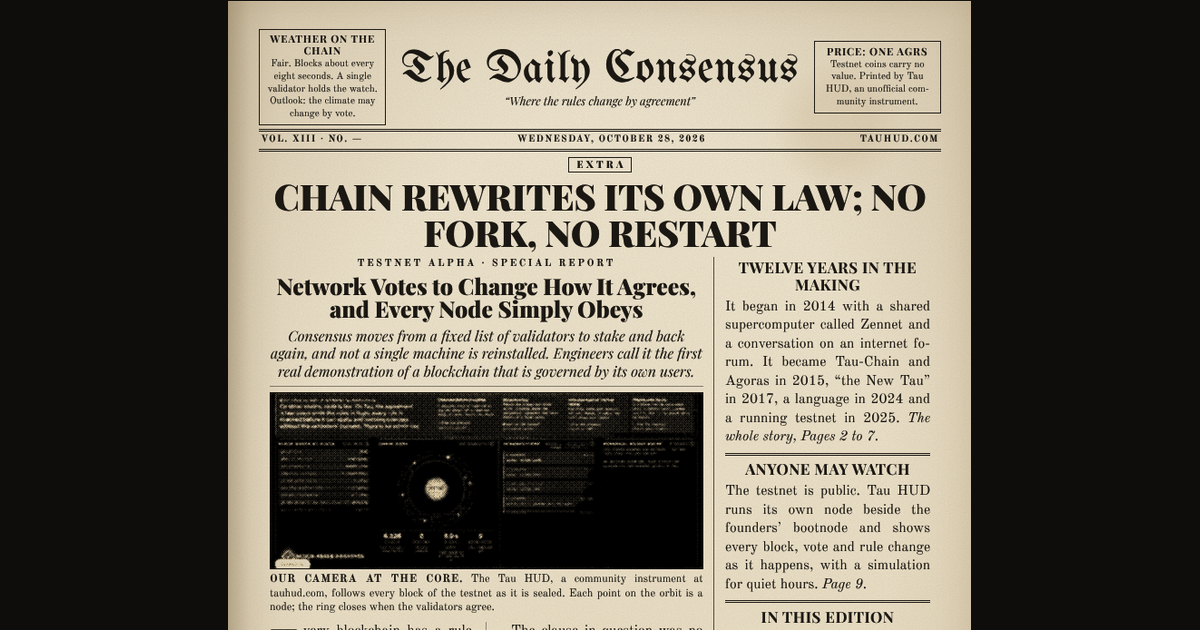
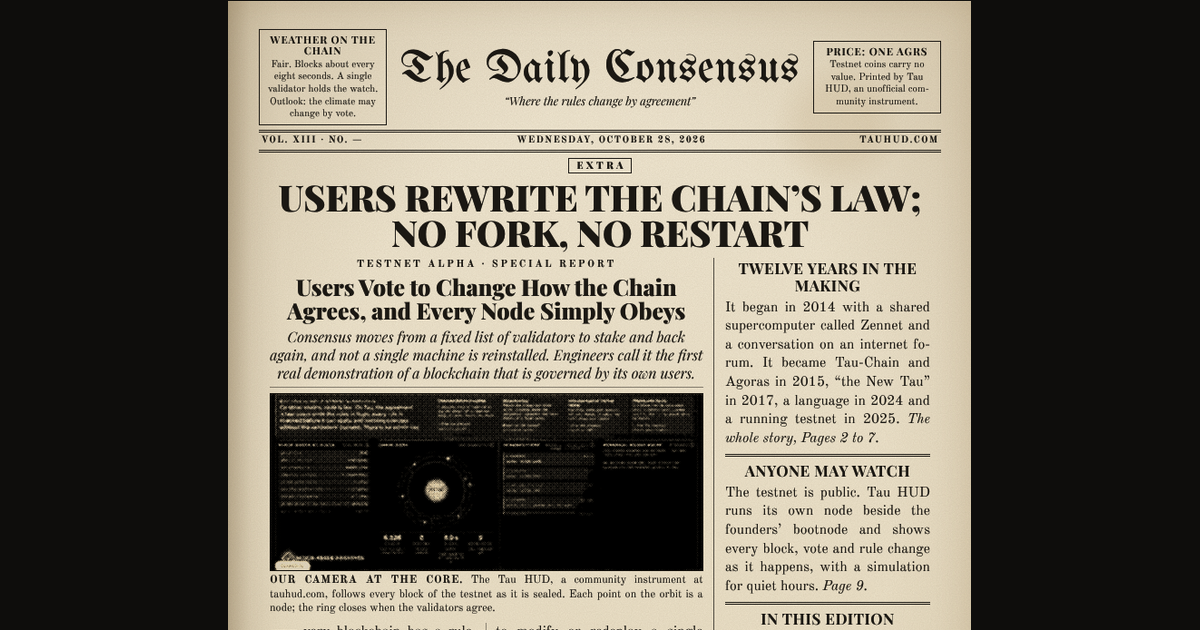
Daily Consensus: the users vote, not the chain or the network

diff --git a/gazette/index.html b/gazette/index.html
@@ -14,7 +14,7 @@
 <link rel="apple-touch-icon" href="/apple-touch-icon.png">
 <meta name="theme-color" content="#09090a">
 <meta property="og:title" content="The Daily Consensus · Tau HUD">
-<meta property="og:description" content="Extra! Chain rewrites its own law, no fork required. Twelve years of Tau as a 1920s newspaper you can leaf through.">
+<meta property="og:description" content="Extra! Users rewrite the chain’s law by vote, no fork required. Twelve years of Tau as a 1920s newspaper you can leaf through.">
 <meta property="og:image" content="https://tauhud.com/gazette/img/og.png">
 <meta property="og:url" content="https://tauhud.com/gazette/">
 <meta name="twitter:card" content="summary_large_image">
@@ -233,7 +233,7 @@ const EN = {
   motto: "“Where the rules change by agreement”",
   ui: { coverLine: "Twelve years of Tau and the chain that changes its own rules, in ten pages of news, letters, obituaries and puzzles.", cont: "continued", stop: "Stop press", front: "Front page", pageN: n => `Page ${n}`, pagesN: (a, b) => `Pages ${a}–${b}`, of: "of", tocN: n => `p. ${n}`, back: "‹ Back", turn: "Turn ›", contents: "Contents", pocket: "Pocket edition", broad: "Broadsheet", sOn: "Sound on", sOff: "Sound off", hint: "<b>Click or tap the page</b> to turn it · arrow keys work too", hintTouch: "<b>Tap the page</b> to turn it · swipe works too", wireWait: "the wire to the node is being connected", wireOff: "the wire to the node is silent just now; the full story waits at tauhud.com", wire: (h, age) => `At the hour of printing the testnet stood at block <span class="live">#${h}</span>${age != null ? `, the last one sealed ${age} seconds before this line was set` : ""}. Follow it live at tauhud.com.` },
   date: d => d.toLocaleDateString("en-US", { weekday: "long", year: "numeric", month: "long", day: "numeric", timeZone: "UTC" }),
-  toc: ["Front page: chain rewrites its own law", "The long road from Zennet", "The hard fork, explained", "Four quiet years and one great equation", "A language that speaks of itself", "Dispatches from the builders' yard", "The year the chain took the wheel", "How a law is made · Letters", "Today on the testnet · Classifieds", "Amusements · Clip and keep"],
+  toc: ["Front page: users rewrite the chain’s law", "The long road from Zennet", "The hard fork, explained", "Four quiet years and one great equation", "A language that speaks of itself", "Dispatches from the builders' yard", "The year the users took the wheel", "How a law is made · Letters", "Today on the testnet · Classifieds", "Amusements · Clip and keep"],
   pages: [
 /* ---------------- 1 FRONT PAGE ---------------- */
 `<div class="pg front">
@@ -244,16 +244,16 @@ const EN = {
   </div>
   <div class="dateline"><span>Vol. XIII · No. {{HEIGHT}}</span><span>{{DATE}}</span><span>tauhud.com</span></div>
   <div class="center"><span class="extra">EXTRA</span></div>
-  <div class="banner">Chain rewrites its own law; no fork, no restart</div>
+  <div class="banner">Users rewrite the chain’s law; no fork, no restart</div>
   <div class="grid">
     <div class="u s4">
       <div class="kick">Testnet Alpha · special report</div>
-      <h2>Network Votes to Change How It Agrees, and Every Node Simply Obeys</h2>
+      <h2>Users Vote to Change How the Chain Agrees, and Every Node Simply Obeys</h2>
       <div class="deck">Consensus moves from a fixed list of validators to stake and back again, and not a single machine is reinstalled. Engineers call it the first real demonstration of a blockchain that is governed by its own users.</div>
       <figure class="photo"><img src="img/hud-wide.jpg" width="1100" height="450" style="height:auto;aspect-ratio:1100/450" alt="Halftone photograph of the Tau HUD screen"><figcaption><b>Our camera at the core.</b> The Tau HUD, a community instrument at tauhud.com, follows every block of the testnet as it is sealed. Each point on the orbit is a node; the ring closes when the validators agree.</figcaption></figure>
       <div class="c2"><p class="dc ni">Every blockchain has a rulebook. On most of them it is carved into the software itself, and changing a single line means a <i>hard fork</i>: new software, shipped to every machine, installed by every operator, with the ever-present danger that some refuse and the chain splits in two.</p>
       <p>The Tau network has taken a different road. In its August development report the team described demonstrations in which, in their words, the community can <i>“amend the single clause on the network’s law and activate it on the next block”</i>, without having to modify or redeploy a single node.</p>
-      <p>The clause in question was no small matter. It was consensus itself: who may seal blocks. The network voted to move from a fixed validator list to proof of stake, and then voted to move back. Each time, every node switched by itself at the agreed block.</p>
+      <p>The clause in question was no small matter. It was consensus itself: who may seal blocks. The users voted to move from a fixed validator list to proof of stake, and then voted to move back. Each time, every node switched by itself at the agreed block.</p>
       <p>It works because the rulebook lives on the chain. Since January every block records the exact snapshot of rules it ran under, and since May the consensus logic is written in the Tau Language rather than in Python, so a rule change is simply another transaction. <i>See Page 7.</i></p></div>
     </div>
     <div class="u s2 rl">
@@ -332,7 +332,7 @@ const EN = {
         <g font-size="13" text-anchor="middle">
           <rect x="0" y="184" width="120" height="44" fill="none" stroke="#1b1813" stroke-width="1.5"/><text x="60" y="211">Proposal</text>
           <rect x="150" y="184" width="130" height="44" fill="none" stroke="#1b1813" stroke-width="1.5"/><text x="215" y="204">Checked by logic</text><text x="215" y="220" font-size="11" font-style="italic">contradiction? refused</text>
-          <rect x="310" y="184" width="120" height="44" fill="none" stroke="#1b1813" stroke-width="1.5"/><text x="370" y="204">Agreed</text><text x="370" y="220" font-size="11" font-style="italic">by the validators</text>
+          <rect x="310" y="184" width="120" height="44" fill="none" stroke="#1b1813" stroke-width="1.5"/><text x="370" y="204">Agreed</text><text x="370" y="220" font-size="11" font-style="italic">by the users’ vote</text>
           <rect x="460" y="184" width="130" height="44" fill="#1b1813"/><text x="525" y="204" fill="#efe5cf" font-weight="700">Law</text><text x="525" y="220" font-size="11" fill="#efe5cf" font-style="italic">at a set block</text>
           <line x1="120" y1="206" x2="148" y2="206" stroke="#1b1813" stroke-width="1.5" marker-end="url(#ar)"/><line x1="280" y1="206" x2="308" y2="206" stroke="#1b1813" stroke-width="1.5" marker-end="url(#ar)"/><line x1="430" y1="206" x2="458" y2="206" stroke="#1b1813" stroke-width="1.5" marker-end="url(#ar)"/>
           <line x1="590" y1="206" x2="625" y2="206" stroke="#1b1813" stroke-width="1.5" marker-end="url(#ar)"/><text x="694" y="203" font-weight="700">one chain</text><text x="694" y="219" font-size="11" font-style="italic">every node switched</text>
@@ -344,7 +344,7 @@ const EN = {
       <h2 class="l">On Other Chains, Code Is Law. On Tau, the Agreement Is Law.</h2>
       <div class="c2"><p class="ni dc">The trouble with a rulebook made of software is that only programmers can open it, and only by sending everybody a new copy. A hard fork is a polite name for that copy. If enough people refuse it, the chain divides, and two currencies walk away from one another like brothers after a will is read.</p>
       <p>Tau keeps the rulebook inside the chain. Users write the rules in the Tau Language, a language of logic, and propose them like any other transaction. Before a proposal can apply it is compiled and checked against the rules already in force. If it contradicts them it is refused at the door and never reaches the chain.</p>
-      <p>A proposal that passes the check is put to the validators. When enough of them agree, it becomes law at a block named in advance, for every node at once. There is no administrator’s key, no emergency switch kept by the founders. Nothing changes without the validators’ consent.</p>
+      <p>A proposal that passes the check is put to the vote. When enough votes agree, it becomes law at a block named in advance, for every node at once. There is no administrator’s key, no emergency switch kept by the founders. Nothing changes unless the vote agrees.</p>
       <p>A Tau team member put it plainly early this year: the governance is highly flexible, and <i>“the system updates itself according to the desired specification.”</i></p></div>
     </div>
     <div class="u s2 rl rt">
@@ -453,14 +453,14 @@ const EN = {
 /* ---------------- 7 2026 ---------------- */
 `<div class="pg">
   <div class="rh"><span>Page 7</span><span class="nm">{{NAME}}</span><span>{{DATE}}</span></div>
-  <div class="banner sm">The year the chain took the wheel</div>
+  <div class="banner sm">The year the users took the wheel</div>
   <div class="grid">
     <div class="u s4">
       <div class="kick">2026 · a chronicle</div>
       <h2>From “The Demo” to Programmable Money</h2>
       <div class="c2"><p class="dc ni">January opened with a promise kept: every block now records the exact snapshot of rules it ran under, so a newcomer node can check the state hash instead of replaying all of history. In February the team gave the year its motto. Testnet Alpha, they said, <i>is</i> the demo.</p>
       <p>April brought fork choice and reorganisations, one canonical chain, and user-defined policy checks beside the built-in ones. In May came the decisive step. Consensus was moved out of Python and into Tau logic, so that the users could change it with rules, and a developer command line arrived for nodes, keys and votes.</p>
-      <p>In August the users did change it. The network voted its way from a fixed validator list to stake and back, without redeploying a node. The validator list itself now lives in Tau logic.</p>
+      <p>In August the users did change it. They voted their way from a fixed validator list to stake and back, without redeploying a node. The validator list itself now lives in Tau logic.</p>
       <p>September was declared the product phase: a simple wallet mode with rule templates and sharing, and two more patents granted. In October, co-signed transfers arrived, large payments that need several approvals, with deadlines counted in blocks that no clock can fake. One commonly used specification now loads in 2.4 seconds where it once took 68.</p>
       <p>Mainnet and the real Agoras coin are still ahead. The road, for once, is visible.</p></div>
     </div>
@@ -496,7 +496,7 @@ const EN = {
           <line x1="124" y1="56" x2="234" y2="56" stroke="#1b1813" stroke-width="1.5" marker-end="url(#ar2)"/><line x1="324" y1="56" x2="434" y2="56" stroke="#1b1813" stroke-width="1.5" marker-end="url(#ar2)"/><line x1="524" y1="56" x2="634" y2="56" stroke="#1b1813" stroke-width="1.5" marker-end="url(#ar2)"/>
           <text x="80" y="118" font-style="italic" font-size="13">a rule, written in Tau,</text><text x="80" y="134" font-style="italic" font-size="13">sent as a transaction</text>
           <text x="280" y="118" font-style="italic" font-size="13">compiled against the law</text><text x="280" y="134" font-style="italic" font-size="13">in force; contradictions out</text>
-          <text x="480" y="118" font-style="italic" font-size="13">validators vote; enough</text><text x="480" y="134" font-style="italic" font-size="13">yes votes and it is agreed</text>
+          <text x="480" y="118" font-style="italic" font-size="13">the users vote; enough</text><text x="480" y="134" font-style="italic" font-size="13">yes votes and it is agreed</text>
           <text x="680" y="118" font-style="italic" font-size="13">in force for every node</text><text x="680" y="134" font-style="italic" font-size="13">at the block named ahead</text>
         </g>
       </svg>
@@ -539,7 +539,7 @@ const EN = {
       <div class="kick">From our correspondent at the node</div>
       <h2>A Public Chain, Open to Any Spectator</h2>
       <div class="c2"><p class="dc ni">Testnet Alpha runs in the open, and your correspondent has a seat in the gallery. Tau HUD keeps its own node on the network beside the bootnode of IDNI, the company behind Tau, and prints what it sees.</p>
-      <p>At the moment a single validator, run by IDNI, seals every block, roughly one every eight seconds. Proposals to change the rules arrive as transactions, gather votes and, once agreed, wait for the block at which they take effect. The HUD shows them coming, counts down to them and lights the ring when they land.</p>
+      <p>At the moment a single validator, run by IDNI, seals every block, roughly one every eight seconds. Users propose rule changes as transactions; the proposals gather votes and, once agreed, wait for the block at which they take effect. The HUD shows them coming, counts down to them and lights the ring when they land.</p>
       <p>For the quiet hours there is a simulation that follows the same protocol, with a scheduled event every hour and a change of consensus twice a day. It is marked in amber wherever it appears, so that nobody mistakes the rehearsal for the play.</p>
       <div class="box wire"><p class="ni" id="wire1">{{WIRE}}</p></div></div>
     </div>

diff --git a/gazette/zh.js b/gazette/zh.js
@@ -4,7 +4,7 @@ window.GAZETTE_ZH = {
   motto: "规则经由共识而改变",
   ui: { coverLine: "Tau 的十二年，以及一条能修改自身规则的链：十版新闻、来信、讣告与谜题。", cont: "续前", stop: "最新电讯", front: "头版", pageN: n => `第 ${n} 版`, pagesN: (a, b) => `第 ${a}–${b} 版`, of: "/ 共", tocN: n => `第 ${n} 版`, back: "‹ 上一页", turn: "翻页 ›", contents: "目录", pocket: "袖珍版", broad: "大报版", sOn: "声音 开", sOff: "声音 关", hint: "<b>点击版面</b>即可翻页 · 方向键亦可", hintTouch: "<b>轻触版面</b>即可翻页 · 也可滑动", wireWait: "正在接通节点电报线", wireOff: "节点电报线暂时无声；完整消息请见 tauhud.com", wire: (h, age) => `截至付印之时，测试网位于区块 <span class="live">#${h}</span>${age != null ? `，最近一个区块在本行排版前 ${age} 秒封存` : ""}。实时动态请见 tauhud.com。` },
   date: d => d.toLocaleDateString("zh-CN", { weekday: "long", year: "numeric", month: "long", day: "numeric", timeZone: "UTC" }),
-  toc: ["头版：区块链改写自身法则", "从 Zennet 出发的漫长道路", "硬分叉是什么", "沉寂四年与一个伟大方程", "一门谈论自身的语言", "工地来电：2025", "区块链接过方向盘的一年", "法律如何制定 · 读者来信", "今日测试网 · 分类广告", "游艺 · 剪下收藏"],
+  toc: ["头版：用户改写链的法则", "从 Zennet 出发的漫长道路", "硬分叉是什么", "沉寂四年与一个伟大方程", "一门谈论自身的语言", "工地来电：2025", "用户接过方向盘的一年", "法律如何制定 · 读者来信", "今日测试网 · 分类广告", "游艺 · 剪下收藏"],
   pages: [
 /* ---------------- 1 头版 ---------------- */
 `<div class="pg front">
@@ -15,16 +15,16 @@ window.GAZETTE_ZH = {
   </div>
   <div class="dateline"><span>第十三卷 · No. {{HEIGHT}}</span><span>{{DATE}}</span><span>tauhud.com</span></div>
   <div class="center"><span class="extra">号外</span></div>
-  <div class="banner">区块链改写自身法则：不分叉，不重启</div>
+  <div class="banner">用户投票改写链的法则：不分叉，不重启</div>
   <div class="grid">
     <div class="u s4">
       <div class="kick">Testnet Alpha · 特别报道</div>
-      <h2>网络投票改变共识方式，所有节点自行遵从</h2>
+      <h2>用户投票改变链的共识方式，所有节点自行遵从</h2>
       <div class="deck">共识从固定验证者名单切换到权益证明，又切换回来，没有重装任何一台机器。工程师称之为第一次真正展示一条由用户自己治理的区块链。</div>
       <figure class="photo"><img src="img/hud-wide.jpg" width="1100" height="450" style="height:auto;aspect-ratio:1100/450" alt="Tau HUD 屏幕的网点照片"><figcaption><b>本报镜头对准核心。</b>Tau HUD 是 tauhud.com 上的社区观测仪，测试网每封存一个区块，它都跟着记录。轨道上的每个点是一个节点；验证者同意时，圆环闭合。</figcaption></figure>
       <div class="c2"><p class="dc ni">每条区块链都有一本规则手册。在大多数链上，它被刻进软件本身，改动一行就意味着一次<i>硬分叉</i>：新软件发往每台机器，由每位运营者安装，而且始终存在有人拒绝、链一分为二的危险。</p>
       <p>Tau 网络走了另一条路。团队在八月的开发报告中介绍了几次演示，用他们的话说，社区可以<i>“修改网络法则中的某一条款，并在下一个区块生效”</i>，无需修改或重新部署任何节点。</p>
-      <p>这一条款可不是小事，它就是共识本身：谁可以封存区块。网络投票从固定验证者名单转向权益证明，随后又投票转回。每一次，所有节点都在约定的区块自行切换。</p>
+      <p>这一条款可不是小事，它就是共识本身：谁可以封存区块。用户投票从固定验证者名单转向权益证明，随后又投票转回。每一次，所有节点都在约定的区块自行切换。</p>
       <p>之所以可行，是因为规则手册就在链上。自一月起，每个区块都记录它所依据的规则快照；自五月起，共识逻辑用 Tau 语言而不是 Python 编写，所以改规则只是又一笔交易。<i>详见第 7 版。</i></p></div>
     </div>
     <div class="u s2 rl">
@@ -103,7 +103,7 @@ window.GAZETTE_ZH = {
         <g font-size="13" text-anchor="middle">
           <rect x="0" y="184" width="120" height="44" fill="none" stroke="#1b1813" stroke-width="1.5"/><text x="60" y="211">提案</text>
           <rect x="150" y="184" width="130" height="44" fill="none" stroke="#1b1813" stroke-width="1.5"/><text x="215" y="204">逻辑检查</text><text x="215" y="220" font-size="11" font-style="italic">有矛盾？拒绝</text>
-          <rect x="310" y="184" width="120" height="44" fill="none" stroke="#1b1813" stroke-width="1.5"/><text x="370" y="204">通过</text><text x="370" y="220" font-size="11" font-style="italic">由验证者同意</text>
+          <rect x="310" y="184" width="120" height="44" fill="none" stroke="#1b1813" stroke-width="1.5"/><text x="370" y="204">通过</text><text x="370" y="220" font-size="11" font-style="italic">经用户投票</text>
           <rect x="460" y="184" width="130" height="44" fill="#1b1813"/><text x="525" y="204" fill="#efe5cf" font-weight="700">法律</text><text x="525" y="220" font-size="11" fill="#efe5cf" font-style="italic">于预定区块生效</text>
           <line x1="120" y1="206" x2="148" y2="206" stroke="#1b1813" stroke-width="1.5" marker-end="url(#ar)"/><line x1="280" y1="206" x2="308" y2="206" stroke="#1b1813" stroke-width="1.5" marker-end="url(#ar)"/><line x1="430" y1="206" x2="458" y2="206" stroke="#1b1813" stroke-width="1.5" marker-end="url(#ar)"/>
           <line x1="590" y1="206" x2="625" y2="206" stroke="#1b1813" stroke-width="1.5" marker-end="url(#ar)"/><text x="694" y="203" font-weight="700">一条链</text><text x="694" y="219" font-size="11" font-style="italic">所有节点一起切换</text>
@@ -115,7 +115,7 @@ window.GAZETTE_ZH = {
       <h2 class="l">在别的链上，代码即法律；在 Tau 上，共识即法律</h2>
       <div class="c2"><p class="ni dc">用软件写成的规则手册，麻烦在于只有程序员能打开它，而且只能靠给每个人发一份新副本。硬分叉就是这份副本的客气说法。如果拒绝的人够多，链就会分裂，两种货币从此分道扬镳，好比宣读遗嘱后反目的兄弟。</p>
       <p>Tau 把规则手册放在链里。用户用 Tau 语言（一门逻辑语言）编写规则，并像其他交易一样提交提案。提案生效之前，会先被编译，并与已生效的规则逐一比对。与它们矛盾的，在门口就被拒绝，永远到不了链上。</p>
-      <p>通过检查的提案交由验证者表决。足够多的验证者同意后，它在事先指定的区块对所有节点同时成为法律。没有管理员密钥，也没有创始人手里的紧急开关。未经验证者同意，什么都不会改变。</p>
+      <p>通过检查的提案交付表决。赞成票足够时，它在事先指定的区块对所有节点同时成为法律。没有管理员密钥，也没有创始人手里的紧急开关。表决不通过，什么都不会改变。</p>
       <p>今年早些时候，一位 Tau 团队成员说得很直白：治理非常灵活，<i>“系统会按照期望的规格自行更新。”</i></p></div>
     </div>
     <div class="u s2 rl rt">
@@ -224,14 +224,14 @@ window.GAZETTE_ZH = {
 /* ---------------- 7 2026 ---------------- */
 `<div class="pg">
   <div class="rh"><span>第 7 版</span><span class="nm">{{NAME}}</span><span>{{DATE}}</span></div>
-  <div class="banner sm">区块链接过方向盘的一年</div>
+  <div class="banner sm">用户接过方向盘的一年</div>
   <div class="grid">
     <div class="u s4">
       <div class="kick">2026 · 编年</div>
       <h2>从“演示”到可编程货币</h2>
       <div class="c2"><p class="dc ni">一月以兑现承诺开场：每个区块现在都记录它所依据的确切规则快照，新加入的节点可以核对状态哈希，而不必重放全部历史。二月，团队为这一年定下格言：Testnet Alpha <i>就是</i>演示。</p>
       <p>四月带来了分叉选择与链重组、唯一的规范链，以及与内置检查并列的用户自定义策略检查。五月迈出决定性一步：共识从 Python 移入 Tau 逻辑，用户可以用规则修改它；同时推出了管理节点、密钥和投票的开发者命令行。</p>
-      <p>八月，用户真的改了它。网络通过投票从固定验证者名单切换到权益证明再切回，没有重新部署任何节点。验证者名单本身如今也存在于 Tau 逻辑中。</p>
+      <p>八月，用户真的改了它。他们通过投票从固定验证者名单切换到权益证明再切回，没有重新部署任何节点。验证者名单本身如今也存在于 Tau 逻辑中。</p>
       <p>九月宣布进入产品阶段：带规则模板与分享功能的简易钱包模式，另有两项专利获批。十月，联署转账上线：大额支付需要多方批准，期限以任何时钟都伪造不了的区块数计算。一个常用规格的加载时间从 68 秒降到 2.4 秒。</p>
       <p>主网和真正的 Agoras 币仍在前方。难得的是，这一次路看得见。</p></div>
     </div>
@@ -267,7 +267,7 @@ window.GAZETTE_ZH = {
           <line x1="124" y1="56" x2="234" y2="56" stroke="#1b1813" stroke-width="1.5" marker-end="url(#ar2)"/><line x1="324" y1="56" x2="434" y2="56" stroke="#1b1813" stroke-width="1.5" marker-end="url(#ar2)"/><line x1="524" y1="56" x2="634" y2="56" stroke="#1b1813" stroke-width="1.5" marker-end="url(#ar2)"/>
           <text x="80" y="118" font-size="13">用 Tau 写一条规则，</text><text x="80" y="134" font-size="13">作为交易发出</text>
           <text x="280" y="118" font-size="13">与现行法律一起编译；</text><text x="280" y="134" font-size="13">有矛盾者出局</text>
-          <text x="480" y="118" font-size="13">验证者投票；赞成票</text><text x="480" y="134" font-size="13">足够即获通过</text>
+          <text x="480" y="118" font-size="13">用户投票；赞成票</text><text x="480" y="134" font-size="13">足够即获通过</text>
           <text x="680" y="118" font-size="13">在预先指定的区块</text><text x="680" y="134" font-size="13">对所有节点生效</text>
         </g>
       </svg>
@@ -310,7 +310,7 @@ window.GAZETTE_ZH = {
       <div class="kick">本报驻节点记者</div>
       <h2>一条公开的链，向所有旁观者开放</h2>
       <div class="c2"><p class="dc ni">Testnet Alpha 公开运行，本报记者在旁听席上有个座位。Tau HUD 在 IDNI（Tau 背后的公司）的引导节点旁运行着自己的节点，并把所见付印。</p>
-      <p>目前由 IDNI 运营的唯一一位验证者封存每个区块，大约每八秒一个。修改规则的提案以交易形式到来，收集投票，一旦通过便等待生效的那个区块。HUD 会提前显示、倒数计时，并在生效时点亮圆环。</p>
+      <p>目前由 IDNI 运营的唯一一位验证者封存每个区块，大约每八秒一个。用户以交易形式提出规则变更，提案收集投票，一旦通过便等待生效的那个区块。HUD 会提前显示、倒数计时，并在生效时点亮圆环。</p>
       <p>冷清时段另有一个遵循同一协议的模拟，每小时安排一次事件，每天两次切换共识。它出现的地方都标成琥珀色，免得有人把彩排当成正戏。</p>
       <div class="box wire"><p class="ni" id="wire1">{{WIRE}}</p></div></div>
     </div>

diff --git a/assets/i18n/zh/hud.js b/assets/i18n/zh/hud.js
@@ -1534,6 +1534,6 @@ TauI18n.add({ strings: {
   "Personal money rules, Rule sharing and refused transactions now fill on the HUD, in Live mode and in the simulation. Every rule an account deploys or accepts appears with its terms; offers show who offered what to whom and whether it was accepted, declined or expired; rules and offers set before you opened the page are fetched per account. What the node refuses at the door shows in the transaction feed with its reason, such as too little balance, a used sequence number, a fee below the base fee, a rule that does not compile or the sender's own rule saying no; hover or click for the full story.": "个人资金规则、规则共享和被拒绝的交易现在会在 HUD 上显示，实时模式和模拟中都是如此。账户部署或接受的每条规则都会连同条款一起出现；提议会显示谁向谁提议了什么，以及它被接受、拒绝还是过期；你打开页面之前设置的规则和提议会按账户获取。节点在门口拒绝的内容会带着原因出现在交易流中，例如余额不足、序列号已用、手续费低于基础手续费、规则无法编译或发送方自己的规则说不；悬停或点击可看完整经过。",
   "Just refused a transfer from this account.": "刚刚拒绝了这个账户的一笔转账。",
   "What Tau refuses is red again: refused transactions in the feed, the refused counter, a rejected rule offer, a declined approval and the verdict in each detail use the muted refusal red from the Playground; a personal rule that has just said no to a transfer lights up in it too. The bright red stays reserved for offline.": "Tau 拒绝的内容又用上了拒绝色：交易流中被拒绝的交易、拒绝计数、被拒绝的规则提议、被拒绝的审批以及每个详情中的判定，都使用演练场中柔和的拒绝色；刚刚拒绝了一笔转账的个人规则也会以此色亮起。鲜亮的颜色仍只用于离线。",
-  "New page: The Daily Consensus, twelve years of Tau as a 1920s newspaper. Ten pages drawn from the Tau team’s own videos and the Chronicle: the front-page story of the chain that changed its consensus by vote, the road from Zennet, obituaries for dropped plans, telegrams from 2025, letters from the monthly Q&As, classifieds and puzzles. Click, tap or press the arrow keys to turn a page; on phones and small screens it becomes a pocket edition. In Chinese too. Find it under Learn.": "新页面：《共识日报》，以 1920 年代报纸的形式讲述 Tau 的十二年。十个版面取材于 Tau 团队自己的视频和编年史：头版是网络投票改变共识的链，还有从 Zennet 出发的道路、已放弃计划的讣告、2025 年的电报、月度问答中的读者来信、分类广告和谜题。点击、轻触或按方向键即可翻页；在手机和小屏幕上会变成袖珍版。也有中文版。在“学习”菜单中可以找到。",
+  "New page: The Daily Consensus, twelve years of Tau as a 1920s newspaper. Ten pages drawn from the Tau team’s own videos and the Chronicle: the front-page story of the users who changed the chain’s consensus by vote, the road from Zennet, obituaries for dropped plans, telegrams from 2025, letters from the monthly Q&As, classifieds and puzzles. Click, tap or press the arrow keys to turn a page; on phones and small screens it becomes a pocket edition. In Chinese too. Find it under Learn.": "新页面：《共识日报》，以 1920 年代报纸的形式讲述 Tau 的十二年。十个版面取材于 Tau 团队自己的视频和编年史：头版是用户投票改变链的共识，还有从 Zennet 出发的道路、已放弃计划的讣告、2025 年的电报、月度问答中的读者来信、分类广告和谜题。点击、轻触或按方向键即可翻页；在手机和小屏幕上会变成袖珍版。也有中文版。在“学习”菜单中可以找到。",
   "Newspaper": "报纸",
 } });
